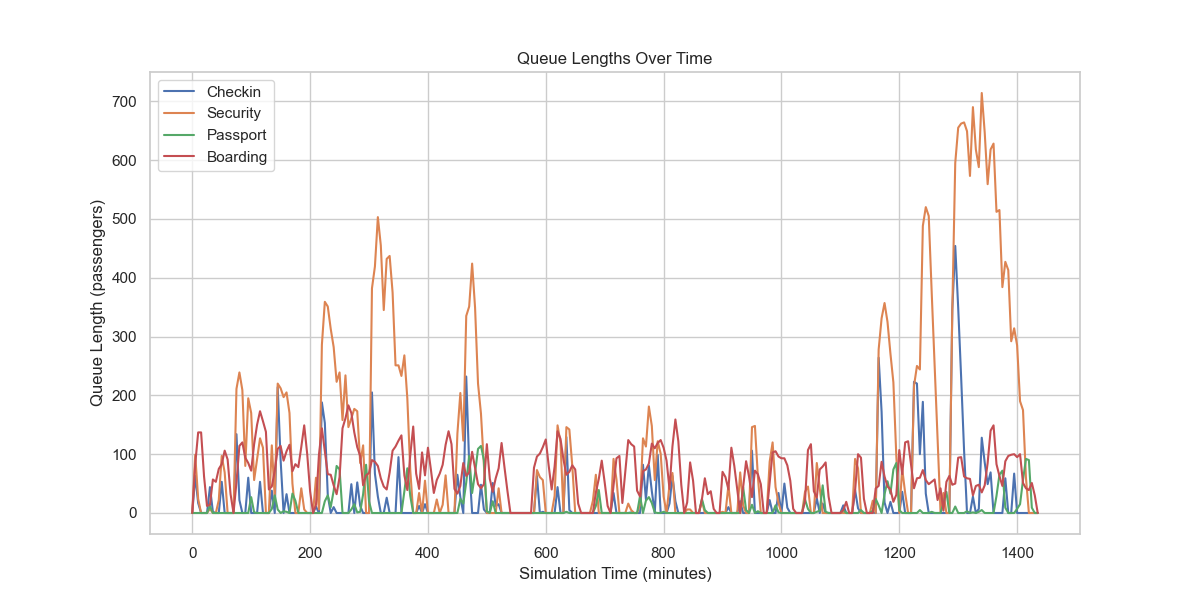
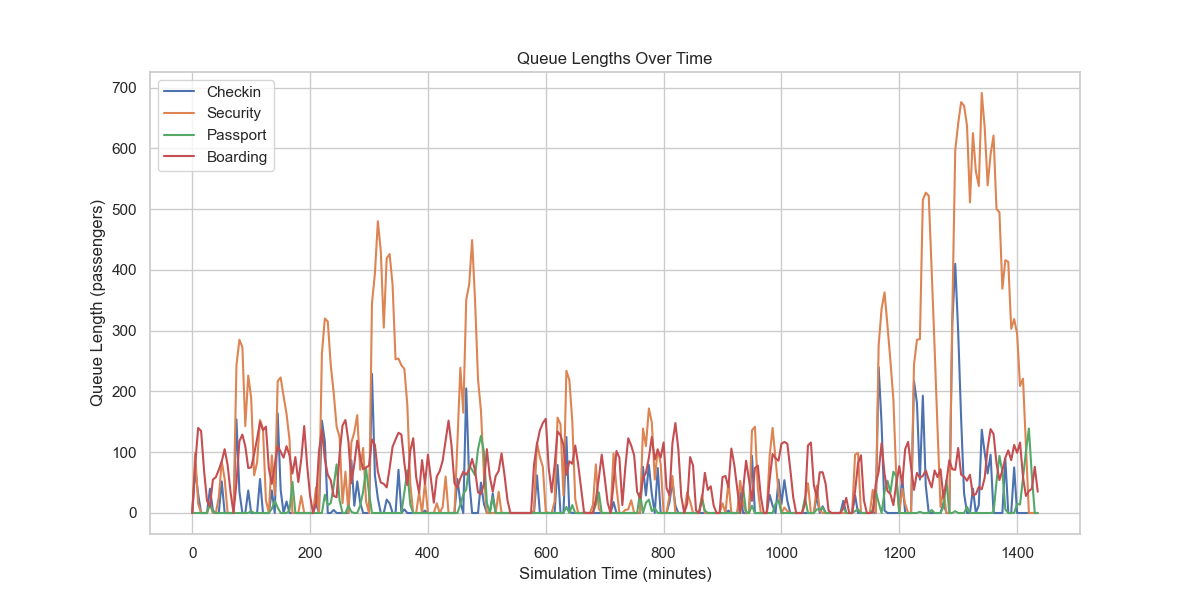
feat: enhance boarding and passport processing with random service time variations and improve flight scheduling logic

diff --git a/src/simulation/scheduler.py b/src/simulation/scheduler.py
@@ -24,20 +24,24 @@ class FlightScheduler:
             )
 
             # Schedule flight processing
-            self.env.process(self.process_flight(flight))
+            delay = (flight.scheduled_time - pd.Timestamp.now()).total_seconds() / 60
+            self.env.process(self.process_flight(flight, delay))
             self.scheduled_flights.append(flight)
 
-    def process_flight(self, flight):
+    def process_flight(self, flight, delay):
         """Process a flight's passengers"""
         # Wait until scheduled time
-        yield self.env.timeout(
-            (flight.scheduled_time - pd.Timestamp.now()).total_seconds() / 60
-        )
+        yield self.env.timeout(delay)
 
-        # Generate and process passengers
+        # Generate passengers with arrival time variation
         passengers = flight.generate_passengers()
+
         for passenger in passengers:
-            passenger.arrival_time = self.env.now
+            # Add normal distribution for arrival time before flight
+            arrival_offset = max(
+                0, np.random.normal(120, 45)
+            )  # Mean 120 minutes, std 45 minutes
+            passenger.arrival_time = self.env.now - arrival_offset
             self.env.process(self.process_passenger(passenger))
 
     def process_passenger(self, passenger):

diff --git a/src/models/stations/passport.py b/src/models/stations/passport.py
@@ -1,4 +1,5 @@
 import simpy
+import numpy as np
 from ...config import (
     PASSPORT_BOOTHS,
     PASSPORT_EGATES,
@@ -37,11 +38,15 @@ class PassportControl:
         if passenger.egate_eligible:
             queue = self.egate_queue
             control = self.egates
-            service_time = EGATE_SERVICE_TIME
+            service_time = max(
+                0.1, np.random.normal(EGATE_SERVICE_TIME, EGATE_SERVICE_TIME * 0.15)
+            )
         else:
             queue = self.booth_queue
             control = self.booths
-            service_time = MANUAL_PASSPORT_TIME
+            service_time = max(
+                0.1, np.random.normal(MANUAL_PASSPORT_TIME, MANUAL_PASSPORT_TIME * 0.25)
+            )
 
         queue.append(entry_time)
 

diff --git a/src/models/stations/boarding.py b/src/models/stations/boarding.py
@@ -1,4 +1,5 @@
 import simpy
+import numpy as np
 from ...config import BOARDING_AGENTS, BOARDING_SERVICE_TIME
 
 
@@ -32,7 +33,11 @@ class Boarding:
             self.queue.remove(entry_time)
 
             # Process boarding
-            yield self.env.timeout(BOARDING_SERVICE_TIME)
+            boarding_time = max(
+                0.1,
+                np.random.normal(BOARDING_SERVICE_TIME, BOARDING_SERVICE_TIME * 0.2),
+            )
+            yield self.env.timeout(boarding_time)
 
             # Record statistics
             passenger.boarding_wait = self.env.now - entry_time
